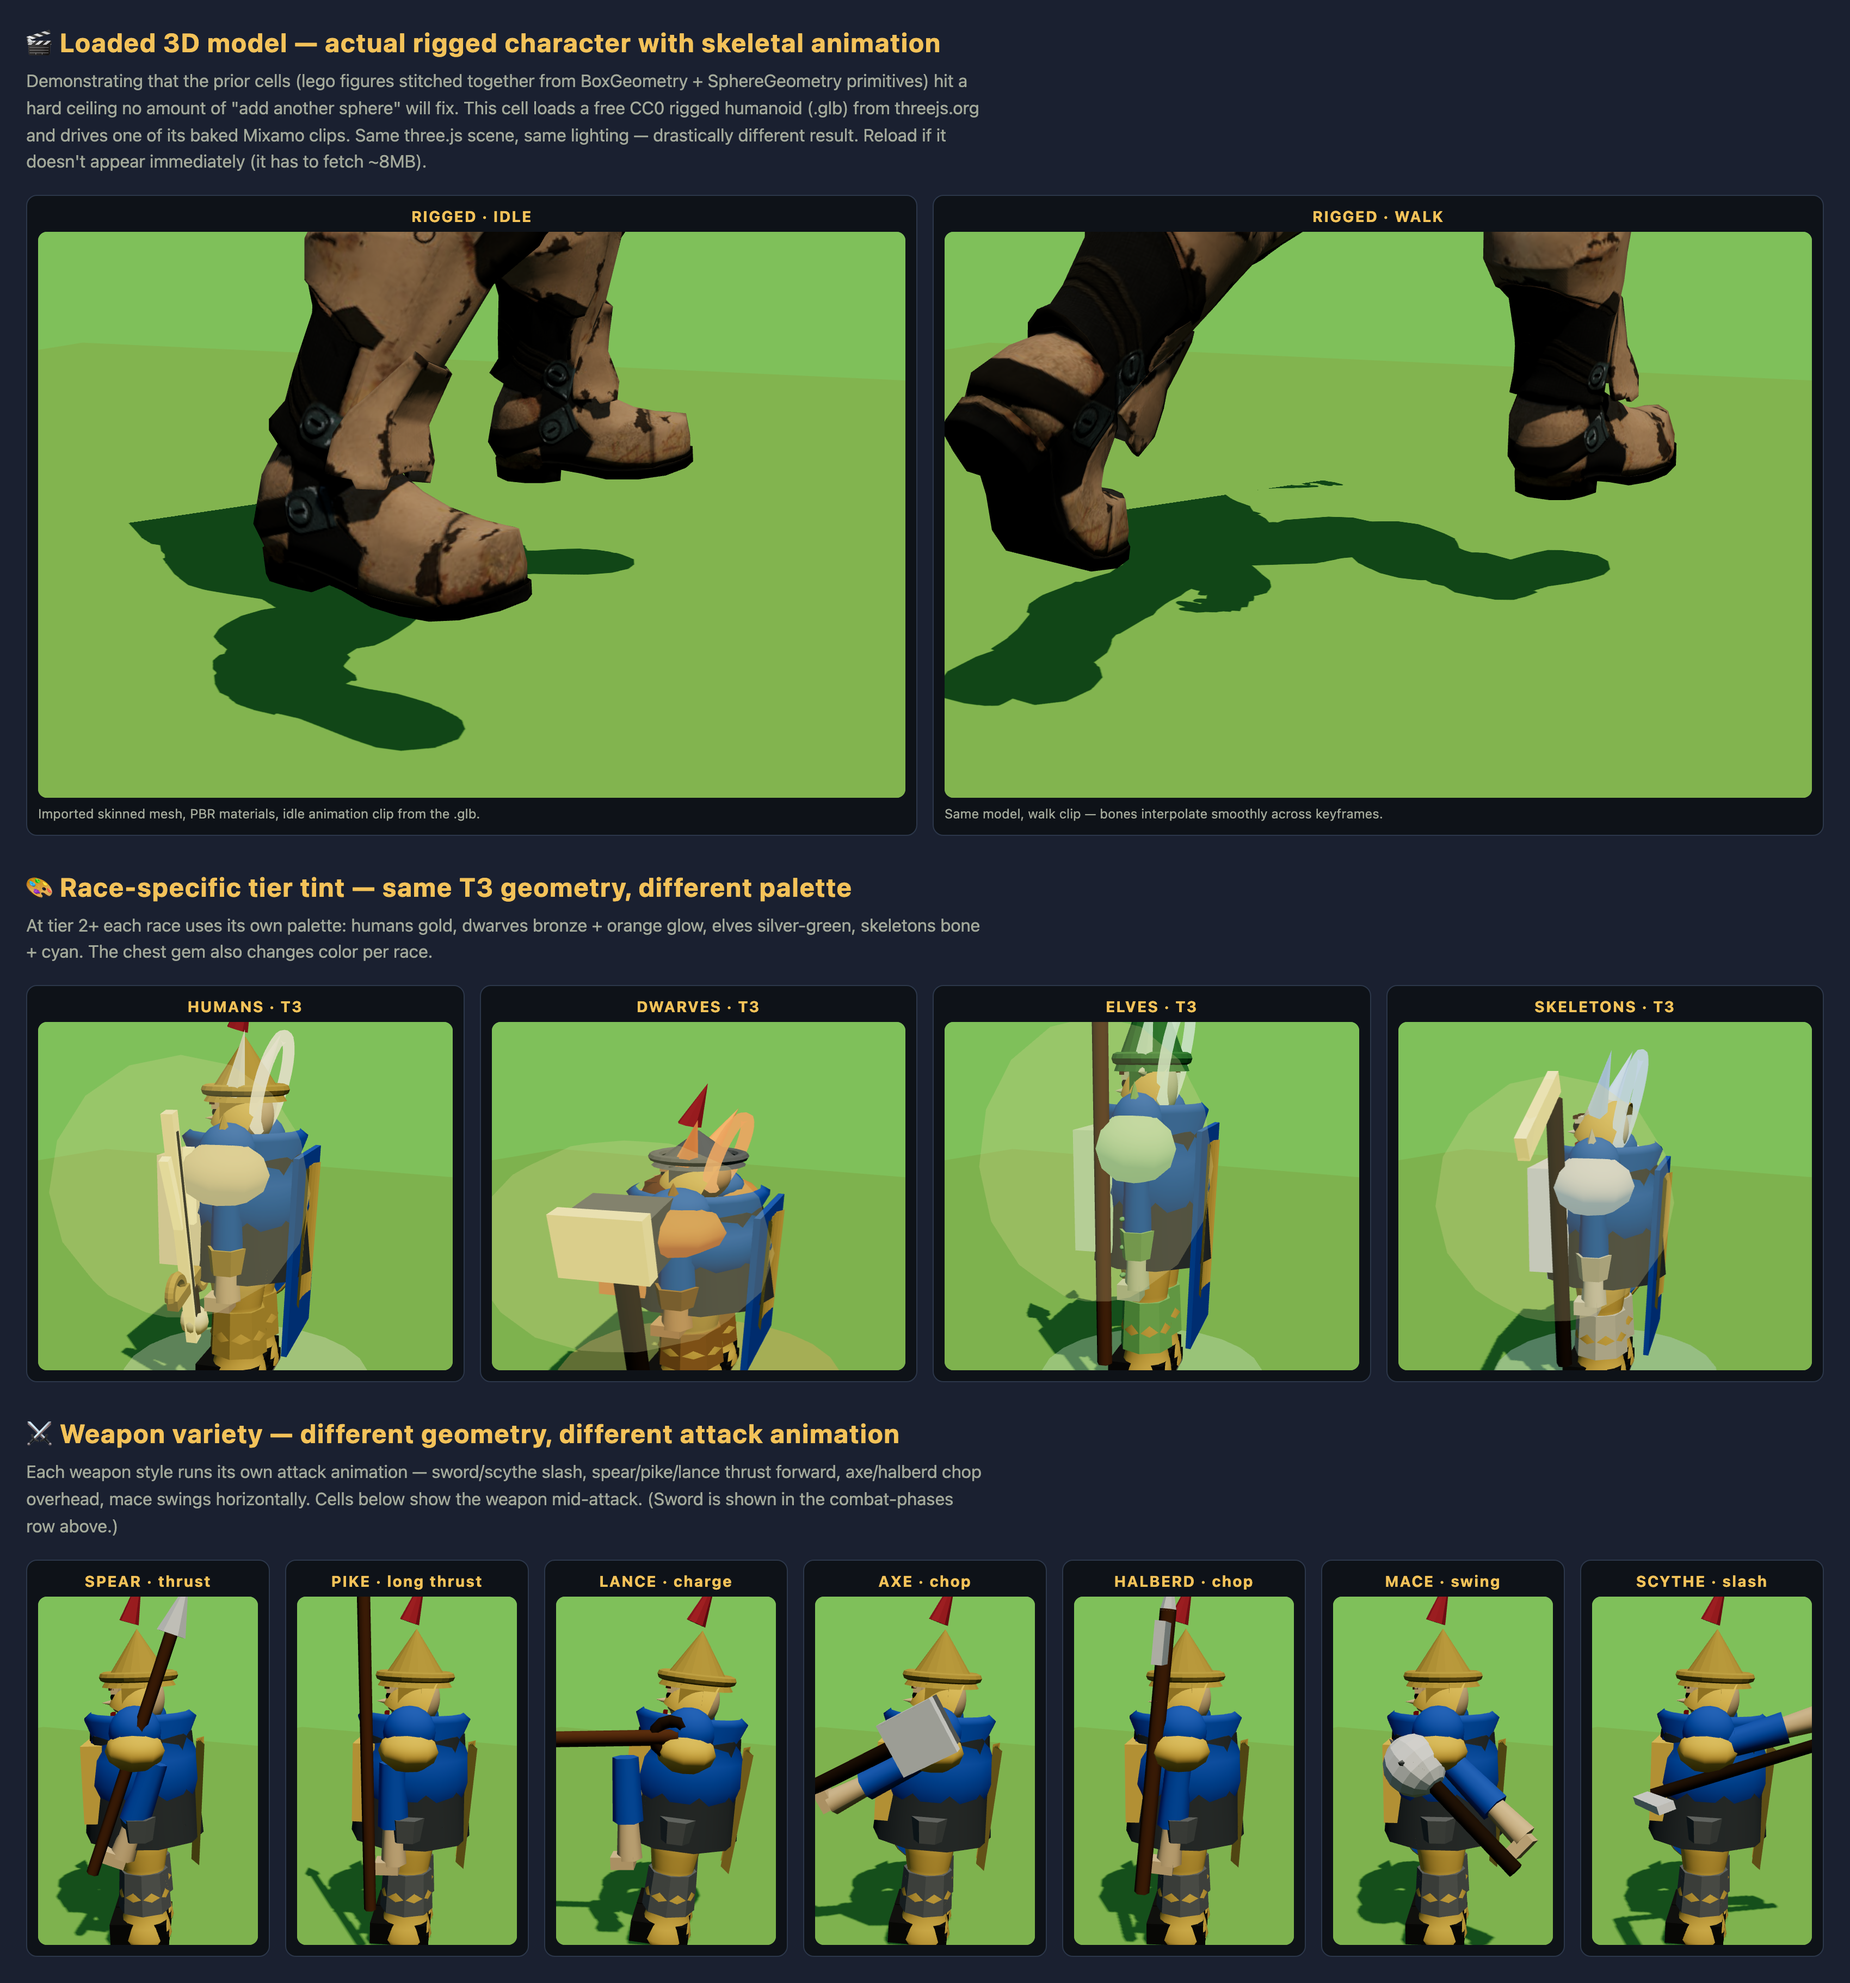
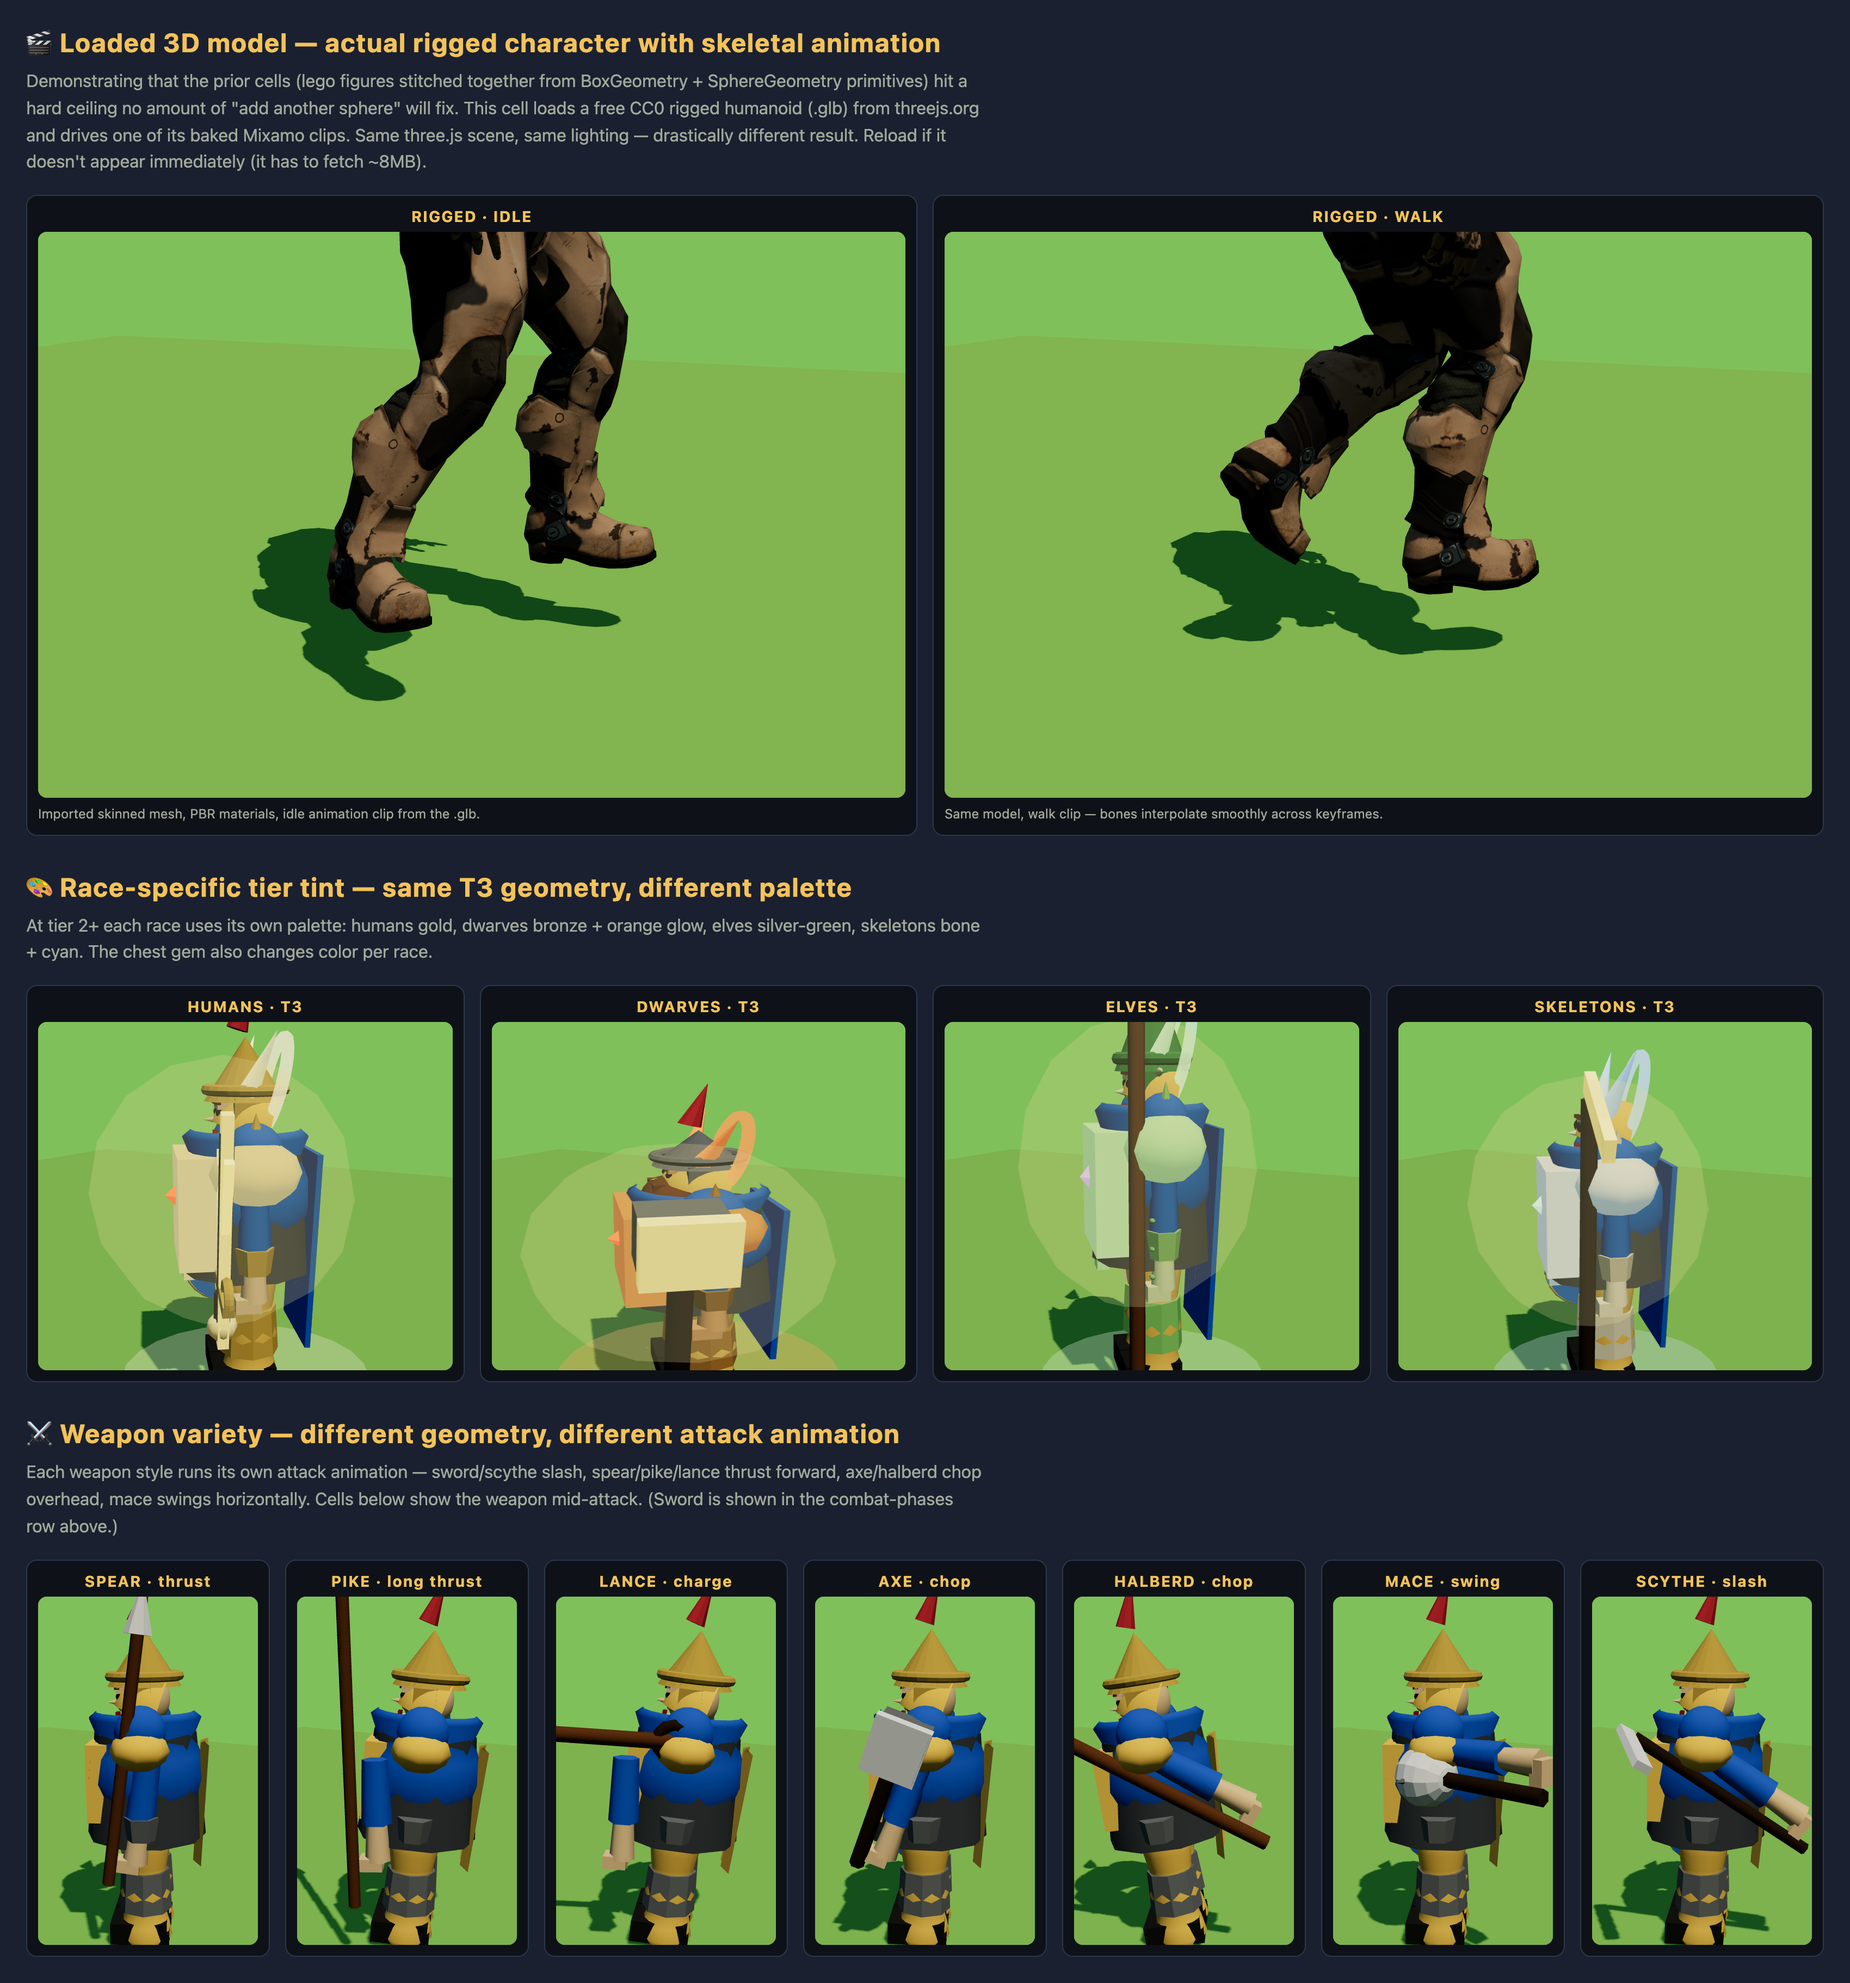
Soldier first cell to TPose + log mesh names to diagnose

diff --git a/web/demos/tiers.html b/web/demos/tiers.html
@@ -28,8 +28,8 @@
   <h1>🎬 Loaded 3D model — actual rigged character with skeletal animation</h1>
   <p class="sub">Demonstrating that the prior cells (lego figures stitched together from BoxGeometry + SphereGeometry primitives) hit a hard ceiling no amount of "add another sphere" will fix. This cell loads a free CC0 rigged humanoid (.glb) from threejs.org and drives one of its baked Mixamo clips. Same three.js scene, same lighting — drastically different result. Reload if it doesn't appear immediately (it has to fetch ~8MB).</p>
   <div class="row" style="grid-template-columns: 1fr 1fr;">
-    <div class="cell"><h2>RIGGED · IDLE</h2><canvas data-soldier="Idle"></canvas><p>Imported skinned mesh, PBR materials, idle animation clip from the .glb.</p></div>
-    <div class="cell"><h2>RIGGED · WALK</h2><canvas data-soldier="Walk"></canvas><p>Same model, walk clip — bones interpolate smoothly across keyframes.</p></div>
+    <div class="cell"><h2>RIGGED · TPose (no anim)</h2><canvas data-soldier="TPose"></canvas><p>T-pose, no animation — should show full body if scene is wired correctly.</p></div>
+    <div class="cell"><h2>RIGGED · WALK</h2><canvas data-soldier="Walk"></canvas><p>Walk clip running.</p></div>
   </div>
   <h1 style="margin-top: 32px">🎨 Race-specific tier tint — same T3 geometry, different palette</h1>
   <p class="sub">At tier 2+ each race uses its own palette: humans gold, dwarves bronze + orange glow, elves silver-green, skeletons bone + cyan. The chest gem also changes color per race.</p>
@@ -79,6 +79,7 @@
       scene.add(u.root);
       const bbox = new THREE.Box3().setFromObject(u.root);
       console.log('[demo] bbox min=' + bbox.min.x.toFixed(2) + ',' + bbox.min.y.toFixed(2) + ',' + bbox.min.z.toFixed(2) + ' max=' + bbox.max.x.toFixed(2) + ',' + bbox.max.y.toFixed(2) + ',' + bbox.max.z.toFixed(2) + ' clips=' + Object.keys(u.clips).join(','));
+      u.root.traverse(m => { if (m.isMesh && m.name) console.log('[demo] mesh ' + m.name + ' y=' + m.position.y.toFixed(2)); });
       camera.position.set(2.5, 2.6, 6.0);
       camera.lookAt(0, 0.9, 0);
       camera.updateProjectionMatrix();
